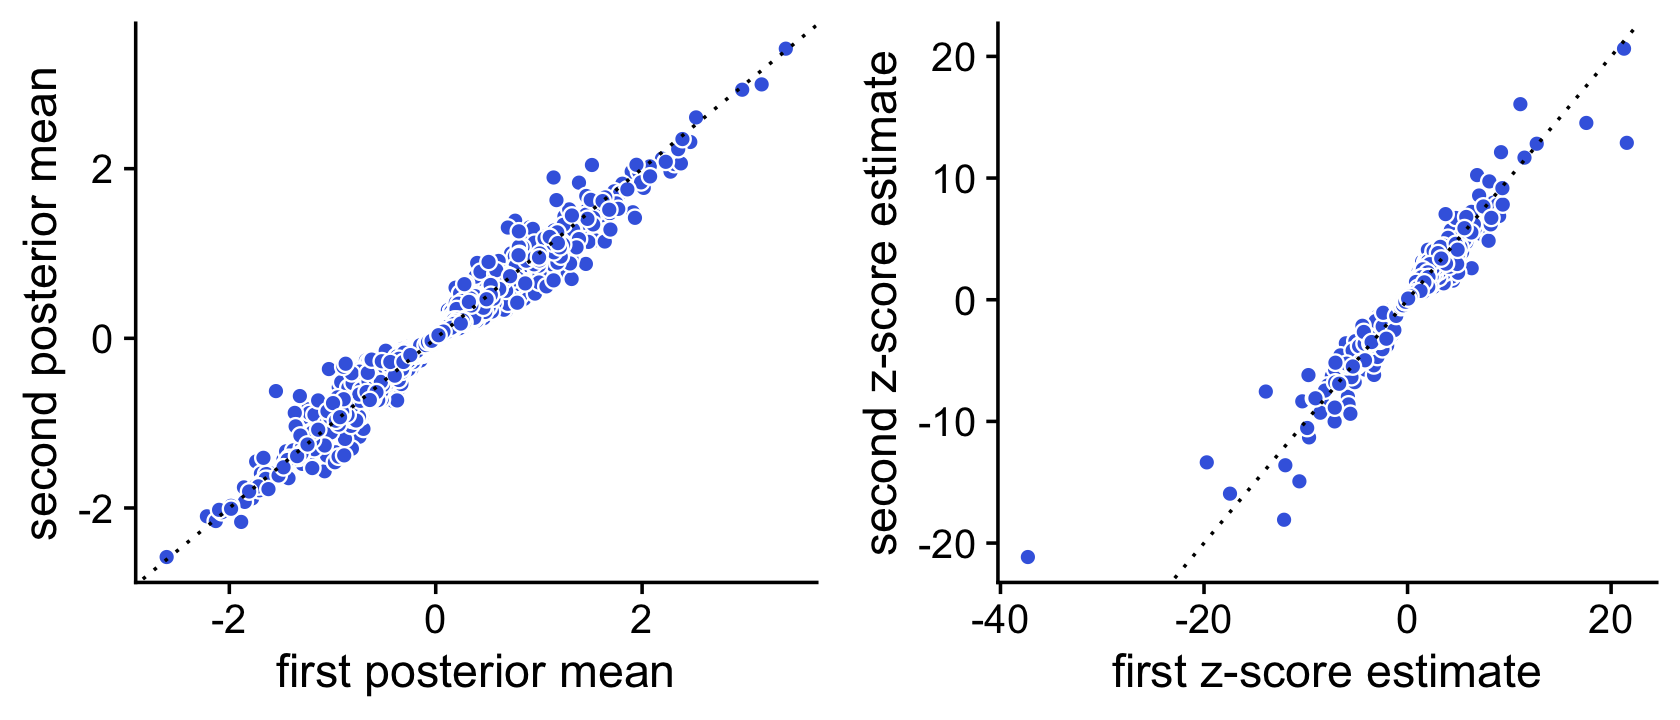
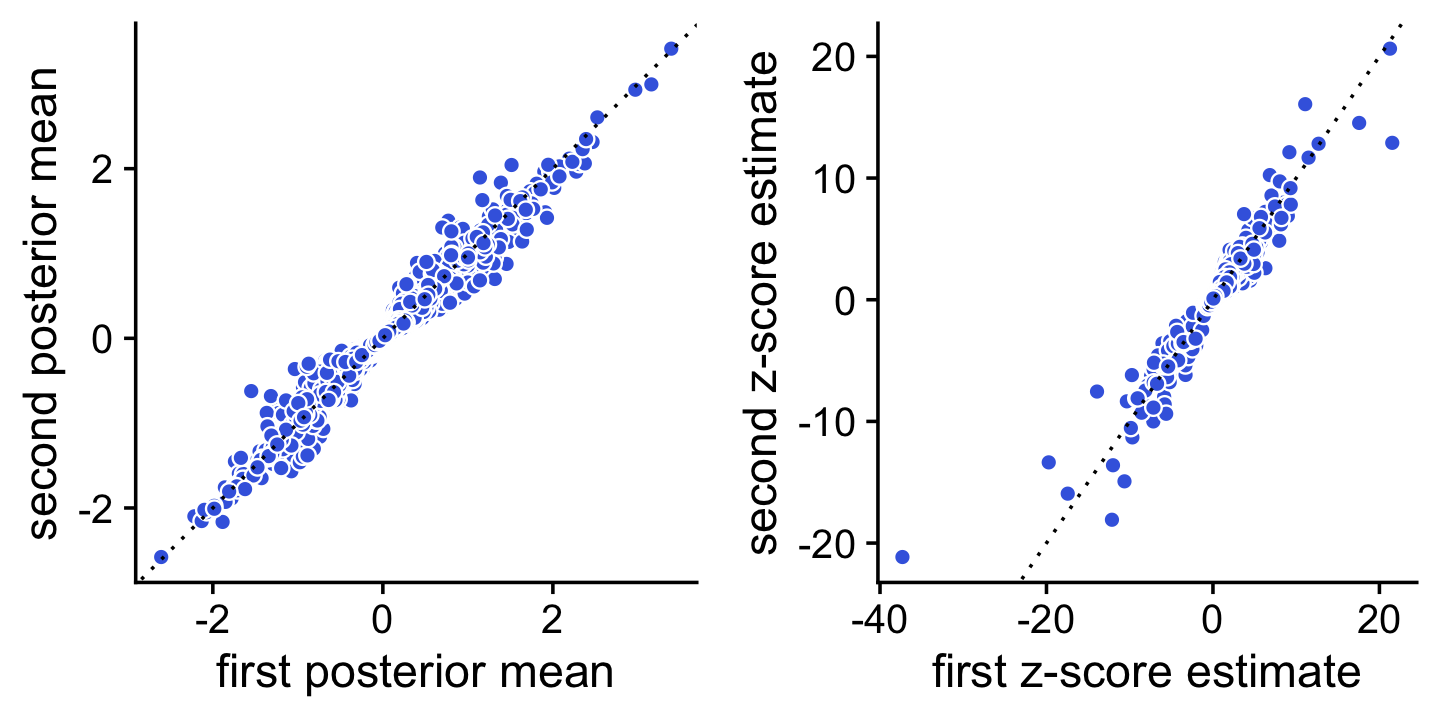
Adjusted a couple plots in de_analysis_detailed_look analysis.

diff --git a/docs/de_analysis_detailed_look.html b/docs/de_analysis_detailed_look.html
@@ -429,16 +429,16 @@ fit-poisson-nmf
 <div class="panel panel-default">
 <div class="panel-heading">
 <p class="panel-title">
-<a data-toggle="collapse" data-parent="#workflowr-checks" href="#strongRepositoryversionstrongahrefhttpsgithubcomstephenslabsinglecelltopicstreeb73c409d70c66404f7493cede033a1dae99370a8targetblankb73c409a"> <span class="glyphicon glyphicon-ok text-success" aria-hidden="true"></span> <strong>Repository version:</strong> <a href="https://github.com/stephenslab/single-cell-topics/tree/b73c409d70c66404f7493cede033a1dae99370a8" target="_blank">b73c409</a> </a>
+<a data-toggle="collapse" data-parent="#workflowr-checks" href="#strongRepositoryversionstrongahrefhttpsgithubcomstephenslabsinglecelltopicstreea3c5695f77d492d0232c5635902adce7729e1586targetblanka3c5695a"> <span class="glyphicon glyphicon-ok text-success" aria-hidden="true"></span> <strong>Repository version:</strong> <a href="https://github.com/stephenslab/single-cell-topics/tree/a3c5695f77d492d0232c5635902adce7729e1586" target="_blank">a3c5695</a> </a>
 </p>
 </div>
[2 lines of base64/hex data omitted]
 <div class="panel-body">
 <p>
 Great! You are using Git for version control. Tracking code development and connecting the code version to the results is critical for reproducibility.
 </p>
 <p>
-The results in this page were generated with repository version <a href="https://github.com/stephenslab/single-cell-topics/tree/b73c409d70c66404f7493cede033a1dae99370a8" target="_blank">b73c409</a>. See the <em>Past versions</em> tab to see a history of the changes made to the R Markdown and HTML files.
+The results in this page were generated with repository version <a href="https://github.com/stephenslab/single-cell-topics/tree/a3c5695f77d492d0232c5635902adce7729e1586" target="_blank">a3c5695</a>. See the <em>Past versions</em> tab to see a history of the changes made to the R Markdown and HTML files.
 </p>
 <p>
 Note that you need to be careful to ensure that all relevant files for the analysis have been committed to Git prior to generating the results (you can use <code>wflow_publish</code> or <code>wflow_git_commit</code>). workflowr only checks the R Markdown file, but you know if there are other scripts or data files that it depends on. Below is the status of the Git repository when the results were generated:
@@ -505,6 +505,40 @@ Message
 </tr>
 </thead>
 <tbody>
+<tr>
+<td>
+Rmd
+</td>
+<td>
+<a href="https://github.com/stephenslab/single-cell-topics/blob/a3c5695f77d492d0232c5635902adce7729e1586/analysis/de_analysis_detailed_look.Rmd" target="_blank">a3c5695</a>
+</td>
+<td>
+Peter Carbonetto
+</td>
+<td>
+2021-11-21
+</td>
+<td>
+workflowr::wflow_publish(“de_analysis_detailed_look.Rmd”, verbose = TRUE)
+</td>
+</tr>
+<tr>
+<td>
+html
+</td>
+<td>
+<a href="https://rawcdn.githack.com/stephenslab/single-cell-topics/3242dd84ba7e50c4fcd159b768bf96b96311d4e1/docs/de_analysis_detailed_look.html" target="_blank">3242dd8</a>
+</td>
+<td>
+Peter Carbonetto
+</td>
+<td>
+2021-11-21
+</td>
+<td>
+Added posterior mean scatterplots to de_analysis_detailed_look analysis.
+</td>
+</tr>
 <tr>
 <td>
 Rmd
@@ -2439,7 +2473,7 @@ p2 &lt;- ggplot(pdat,aes(x = z1,y = z2)) +
   labs(x = &quot;first z-score estimate&quot;,y = &quot;second z-score estimate&quot;) +
   theme_cowplot()
 plot_grid(p1,p2)</code></pre>
-<p><img src="figure/de_analysis_detailed_look.Rmd/assess-monte-carlo-2-1.png" width="840" style="display: block; margin: auto;" /></p>
+<p><img src="figure/de_analysis_detailed_look.Rmd/assess-monte-carlo-2-1.png" width="720" style="display: block; margin: auto;" /></p>
 <p>
 <button type="button" class="btn btn-default btn-xs btn-workflowr btn-workflowr-fig" data-toggle="collapse" data-target="#fig-assess-monte-carlo-2-1">
 Past versions of assess-monte-carlo-2-1.png
@@ -2462,6 +2496,17 @@ Date
 </tr>
 </thead>
 <tbody>
+<tr>
+<td>
+<a href="https://github.com/stephenslab/single-cell-topics/blob/3242dd84ba7e50c4fcd159b768bf96b96311d4e1/docs/figure/de_analysis_detailed_look.Rmd/assess-monte-carlo-2-1.png" target="_blank">3242dd8</a>
+</td>
+<td>
+Peter Carbonetto
+</td>
+<td>
+2021-11-21
+</td>
+</tr>
 <tr>
 <td>
 <a href="https://github.com/stephenslab/single-cell-topics/blob/d74b363ab943841ba42a8a2edb707a062b8e552f/docs/figure/de_analysis_detailed_look.Rmd/assess-monte-carlo-2-1.png" target="_blank">d74b363</a>
@@ -2523,7 +2568,7 @@ p2 &lt;- ggplot(pdat,aes(x = z1,y = z2)) +
   labs(x = &quot;first z-score estimate&quot;,y = &quot;second z-score estimate&quot;) +
   theme_cowplot()
 plot_grid(p1,p2)</code></pre>
-<p><img src="figure/de_analysis_detailed_look.Rmd/assess-monte-carlo-4-1.png" width="840" style="display: block; margin: auto;" /></p>
+<p><img src="figure/de_analysis_detailed_look.Rmd/assess-monte-carlo-4-1.png" width="720" style="display: block; margin: auto;" /></p>
 <p>
 <button type="button" class="btn btn-default btn-xs btn-workflowr btn-workflowr-fig" data-toggle="collapse" data-target="#fig-assess-monte-carlo-4-1">
 Past versions of assess-monte-carlo-4-1.png
@@ -2546,6 +2591,17 @@ Date
 </tr>
 </thead>
 <tbody>
+<tr>
+<td>
+<a href="https://github.com/stephenslab/single-cell-topics/blob/3242dd84ba7e50c4fcd159b768bf96b96311d4e1/docs/figure/de_analysis_detailed_look.Rmd/assess-monte-carlo-4-1.png" target="_blank">3242dd8</a>
+</td>
+<td>
+Peter Carbonetto
+</td>
+<td>
+2021-11-21
+</td>
+</tr>
 <tr>
 <td>
 <a href="https://github.com/stephenslab/single-cell-topics/blob/6a25fa860a3a6e9f4b90d11f8281aff552d032bf/docs/figure/de_analysis_detailed_look.Rmd/assess-monte-carlo-4-1.png" target="_blank">6a25fa8</a>
